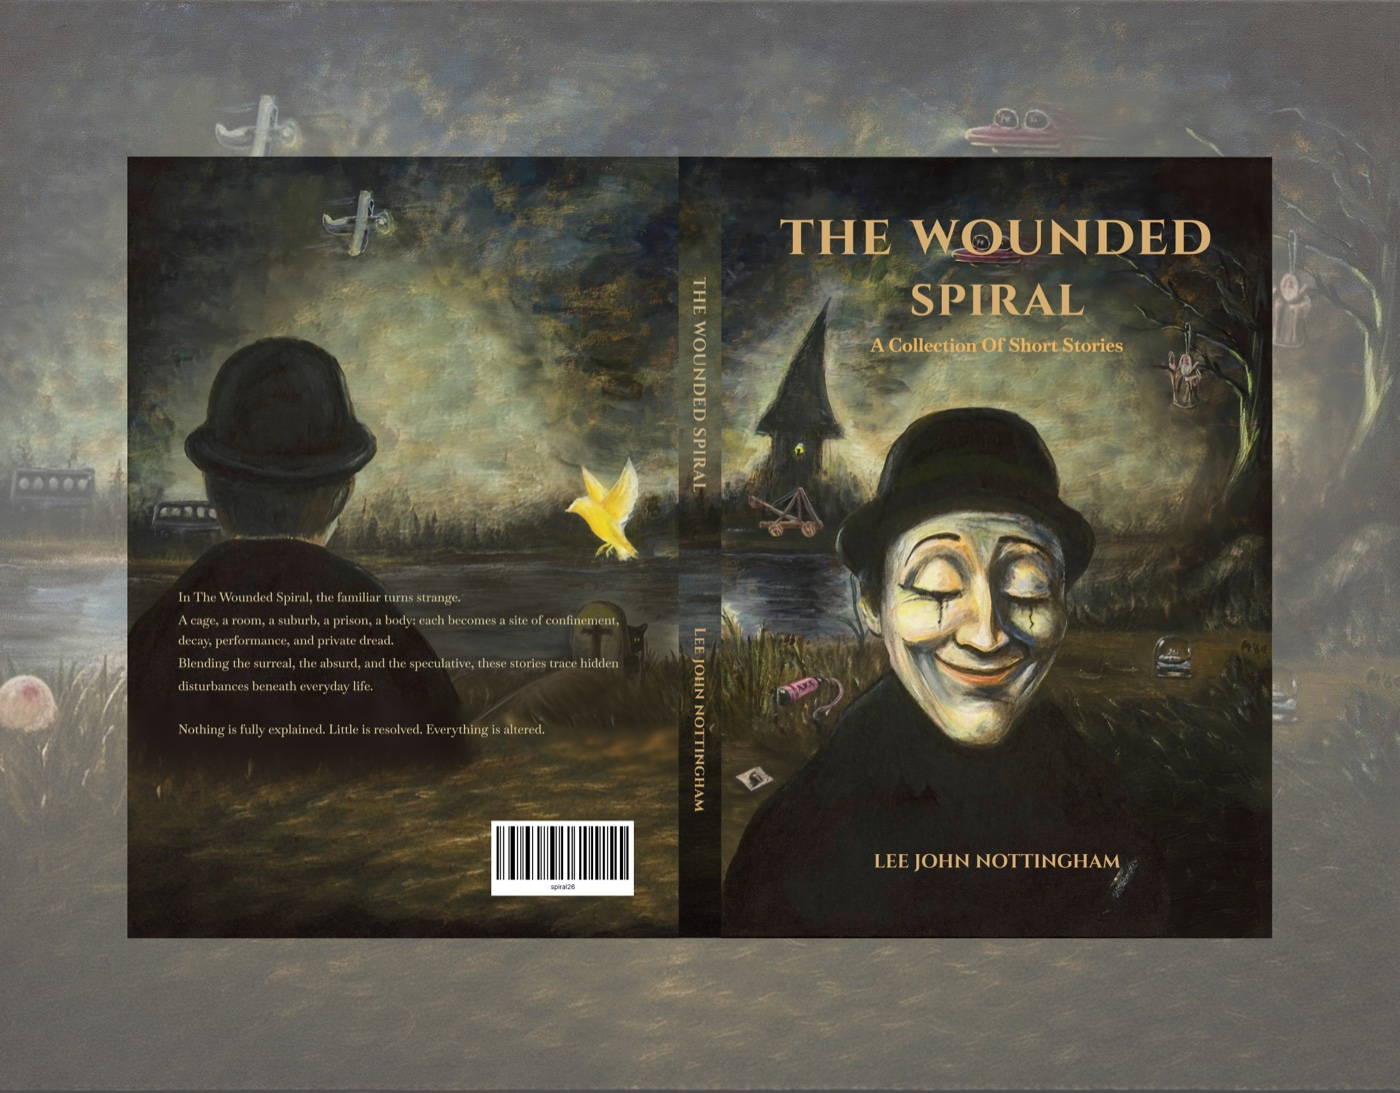
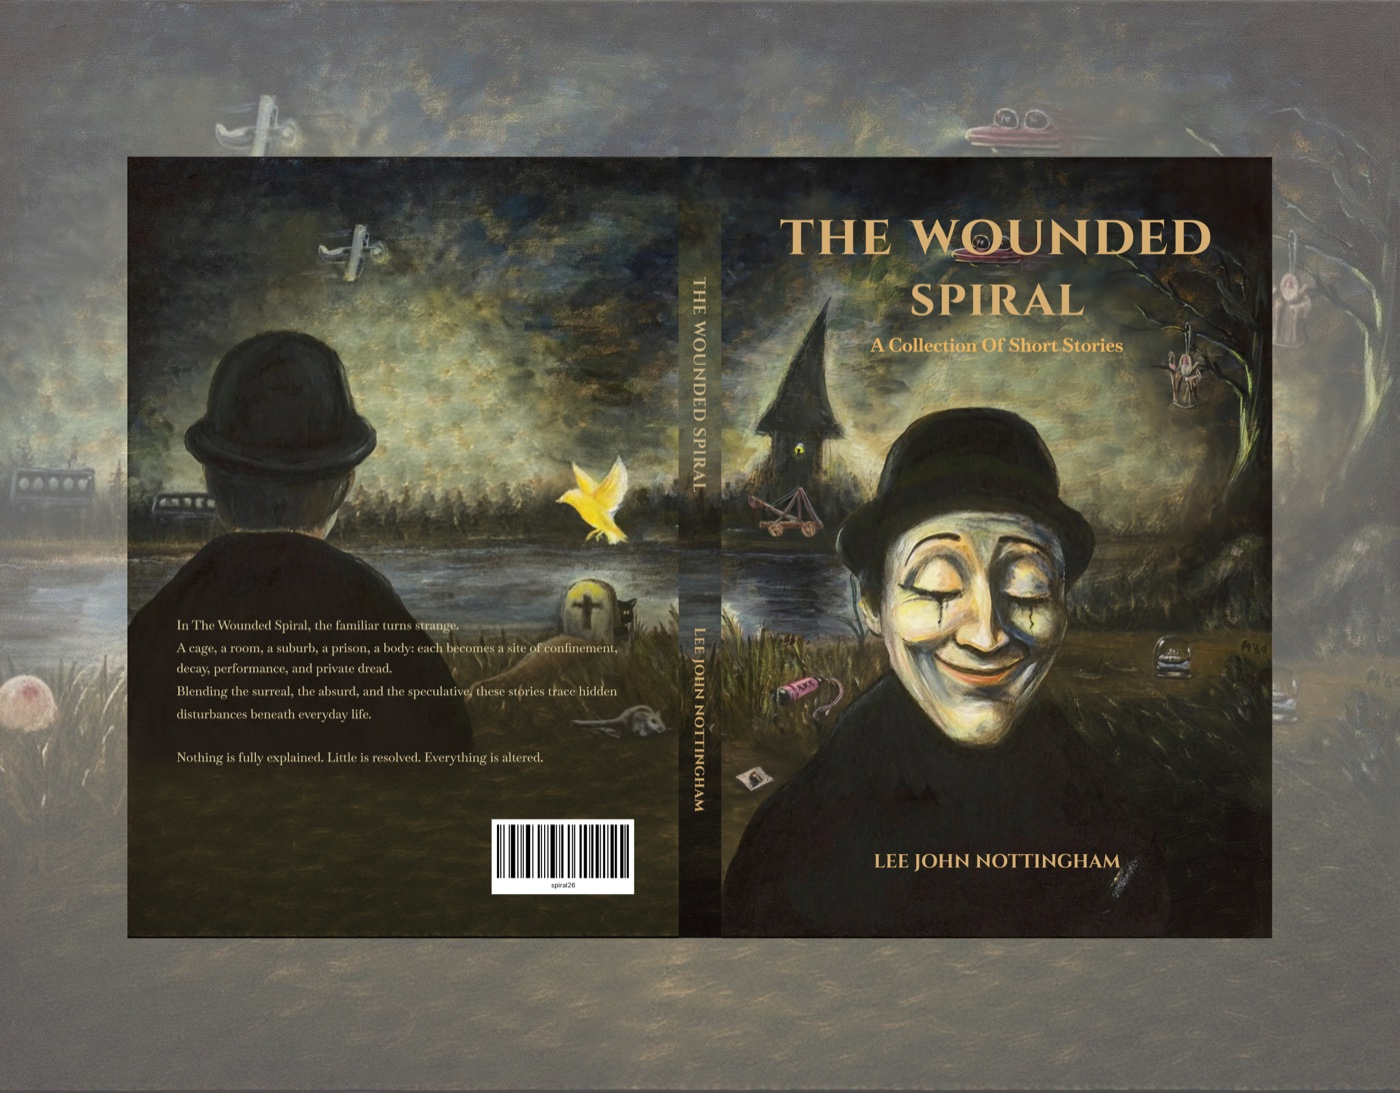
Book cover: new mockup, Final A refresh, honest timeline
- New shelf mockup showing front, back and spine (top band rebuilt so
  the wall continues seamlessly)
- Updated Final A image, captioned "selected by the author"
- Timeline 5 days; Outcome: concept selected by the author
- Looking back: daily feedback rounds; agree sign-off and credit up front

Changed region(s): [[0.0921, 0.1244, 0.4914, 0.8399], [0.1536, 0.3111, 0.1843, 0.3422]]

diff --git a/src/data/creative.ts b/src/data/creative.ts
@@ -108,16 +108,17 @@ export const creative: CreativeCategory[] = [
       kicker: 'Client commission',
       line: '',
       cover: '/images/creative/book-cover/cover.jpg',
-      coverAlt: 'The Wounded Spiral cover design, mocked up on a table',
+      coverAlt: 'The Wounded Spiral cover design, mocked up as books on a shelf',
       meta: [
         ['Book', 'The Wounded Spiral'],
         ['Client', 'Independent author'],
         ['Genre', 'Surrealist fiction'],
         ['Format', 'A5 paperback, full wrap'],
         ['Role', 'Graphic designer'],
-        ['Timeline', '2 weeks'],
+        ['Timeline', '5 days'],
         ['Tools', 'Figma'],
         ['Delivered', 'Two print-ready cover designs'],
+        ['Outcome', 'Concept selected by the author'],
       ],
       stats: [
         ['1st', 'client project, on time and in scope'],
@@ -169,7 +170,7 @@ export const creative: CreativeCategory[] = [
               name: 'Two finals',
               text: 'Final A stays closest to the author’s original idea, with a blurred back for the blurb. Final B removes the blurry aircraft, so one scene runs across the spine. Both went to the author as print-ready files.',
               images: [
-                { src: '/images/creative/book-cover/final-client.jpg', w: 2200, h: 1718, alt: 'Final cover A', caption: 'Final A · closest to the brief' },
+                { src: '/images/creative/book-cover/final-client.jpg', w: 2200, h: 1718, alt: 'Final cover A', caption: 'Final A · selected by the author' },
                 { src: '/images/creative/book-cover/final-recommended.jpg', w: 2200, h: 1718, alt: 'Final cover B', caption: 'Final B · my recommendation' },
               ],
             },
@@ -180,8 +181,9 @@ export const creative: CreativeCategory[] = [
           title: 'Looking back',
           points: [
             'A canvas isn’t a cover. Every fix had to work without visibly touching the painting.',
-            'With two strong options on the table, quick and clear reasons mattered as much as the design.',
+            'Feedback changed daily: the blurb, its position, the type, the colours, the layout. Short rounds with a clear reason for every choice kept the project moving.',
             'Rebuilding a low-resolution scan into a print-ready file was new to me, and now I know how.',
+            'Agree on final sign-off and credit in writing before starting. I do this on every project now.',
           ],
         },
       ],
